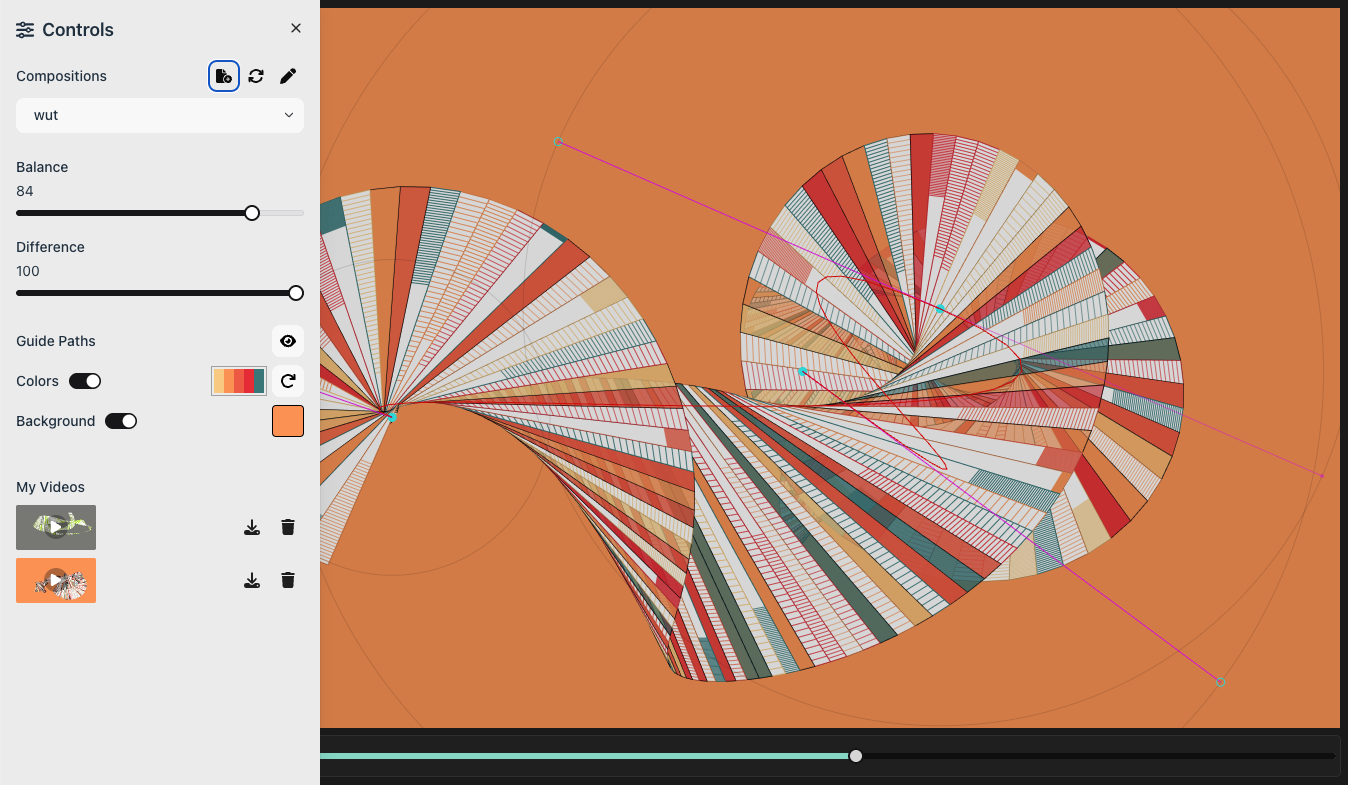
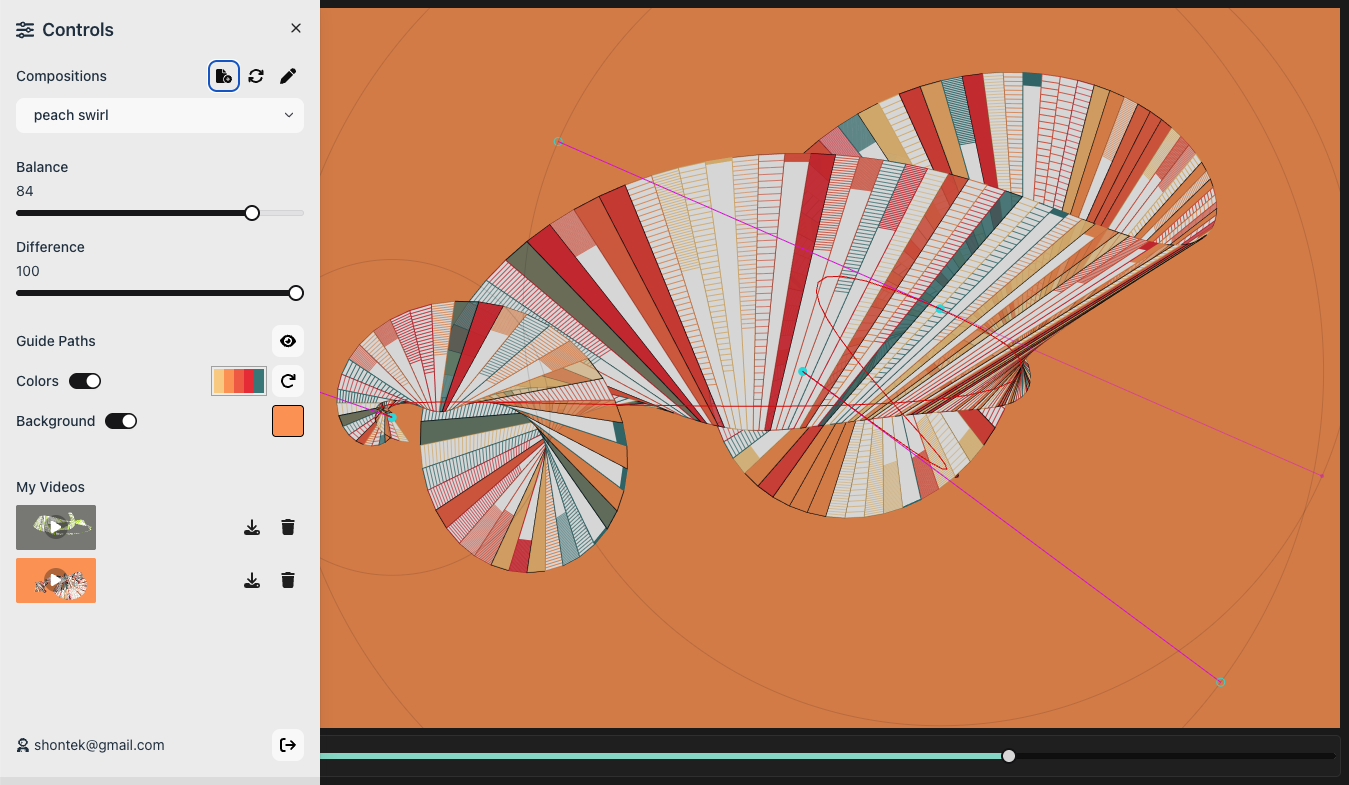
Change page title from Journey to Geometry Bureau Update screencap image

diff --git a/index.html b/index.html
@@ -4,7 +4,7 @@
     <meta charset="UTF-8" />
     <link rel="icon" type="image/svg+xml" href="/journey-favi.svg" />
     <meta name="viewport" content="width=device-width, initial-scale=1.0" />
-    <title>journey</title>
+    <title>geometry bureau</title>
   </head>
   <body>
     <main id="root"></main>

diff --git a/README.md b/README.md
@@ -1,6 +1,6 @@
 ![oh look at me i'm so cool](images/screencap.png)
 
-# Journey
+# Geometry Bureau
 
 An interactive visual thingy, built with React, Vite, Chakra UI, TypeScript and Firebase
 
